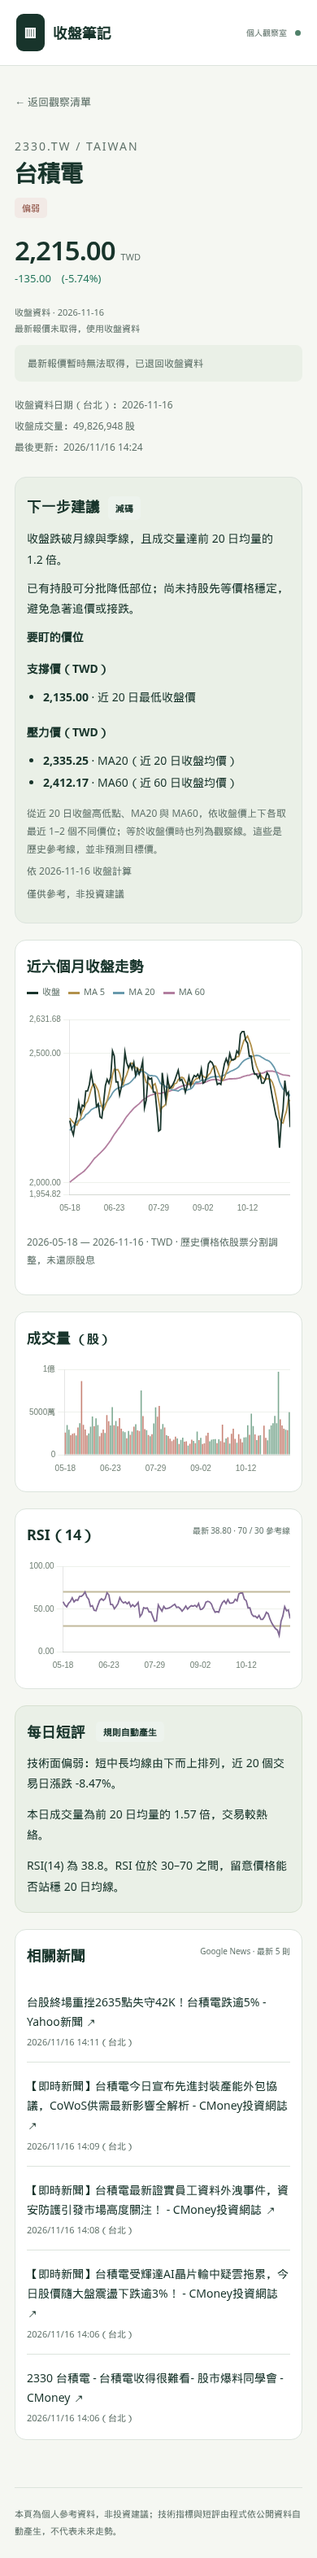
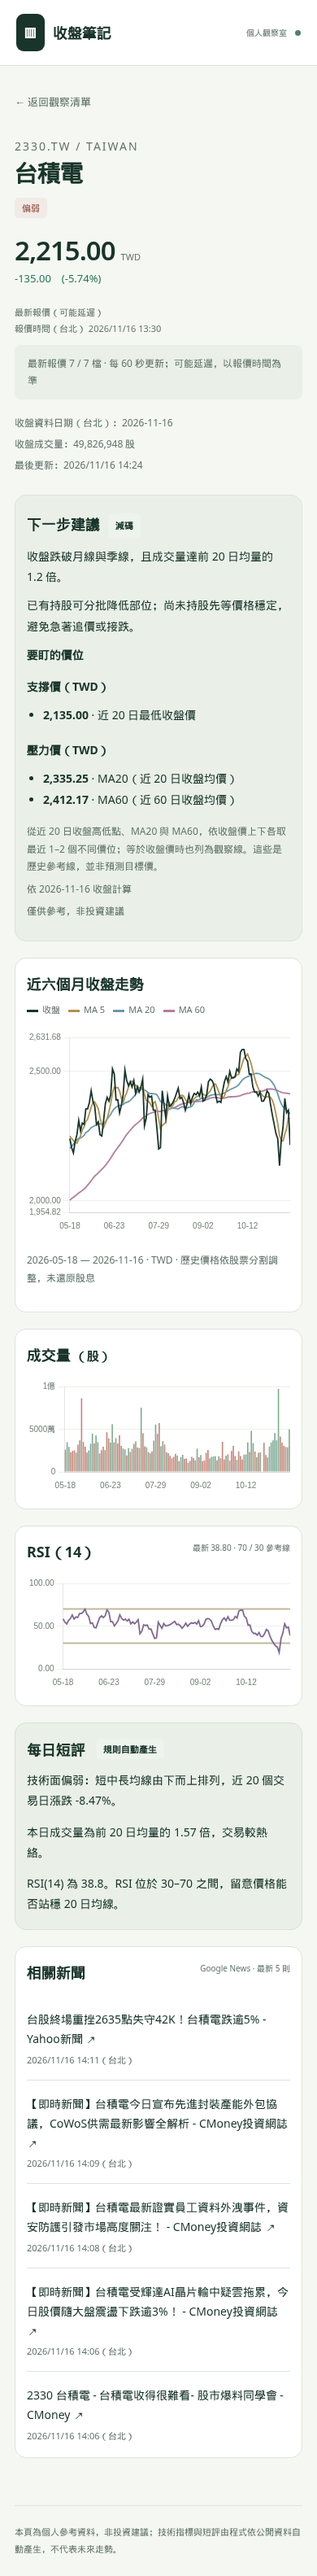
docs: record v1.2 delivery and production verification

Changed region(s): [[0.0308, 0.0312, 0.9231, 0.9351], [0.7077, 0.6858, 0.8923, 0.7793]]

diff --git a/SUMMARY_v1.2.md b/SUMMARY_v1.2.md
@@ -1,0 +1,65 @@
+# 盯盤網頁 v1.2 交付摘要
+
+正式網址：https://edjumptw.github.io/stock-watch/
+
+功能 commit：`c0b980b94c5274be639fb9c1c1f201e8a87093b6`。
+
+## 七檔建議與價位
+
+價位以各自幣別表示；以下為本次部署快照，日後每日更新會重算。
+
+|股票|收盤日期|動作|支撐價（來源）|壓力價（來源）|
+|---|---|---|---|---|
+|國巨 TWD|2026-11-16|觀望|374.00（近 20 日最低收盤價）|374.00（近 20 日最低收盤價）；467.45（MA20（近 20 日收盤均價））|
+|台達電 TWD|2026-11-16|減碼|1,055.00（近 20 日最低收盤價）|1,361.25（MA20（近 20 日收盤均價））；1,640.00（近 20 日最高收盤價）|
+|台積電 TWD|2026-11-16|減碼|2,135.00（近 20 日最低收盤價）|2,335.25（MA20（近 20 日收盤均價））；2,412.17（MA60（近 60 日收盤均價））|
+|光寶科 TWD|2026-11-16|減碼|198.00（近 20 日最低收盤價）|238.82（MA20（近 20 日收盤均價））；264.00（近 20 日最高收盤價）|
+|日月光投控 TWD|2026-11-16|觀望|527.00（近 20 日最低收盤價）|627.60（MA20（近 20 日收盤均價））；643.37（MA60（近 60 日收盤均價））|
+|NVIDIA USD|2026-11-13|減碼|162.85（近 20 日最低收盤價）|162.85（近 20 日最低收盤價）；198.69（MA20（近 20 日收盤均價））|
+|特斯拉 USD|2026-11-13|續抱|385.36（MA20（近 20 日收盤均價））；371.76（MA60（近 60 日收盤均價））|407.46（近 20 日最高收盤價）|
+
+## 規則說明
+
+v1.2 的「下一步建議」由 `scripts/recommendation.py` 使用已完成交易日的收盤、MA5／MA20／MA60、Wilder RSI(14) 與成交量固定計算，不呼叫 AI、不增加資料來源或金鑰。每天台北 06:00、14:30 的既有 Actions 更新資料時一併重算，前端只顯示 JSON；Worker 盤中報價不影響建議與價位。日期使用交易所交易日期，休市保留最近收盤日。
+
+下列規則依順序判斷，第一個符合者即為動作（等號依下列定義）：
+
+1. **減碼**：RSI ≥ 75；或收盤同時低於 MA20、MA60 且量比 ≥ 1.2。適用已有持股者；無持股者先等穩定。
+2. **分批買進**：MA5 > MA20 > MA60、收盤 ≥ MA20、40 ≤ RSI ≤ 65，且 0.8 ≤ 量比 < 1.5，條件必須全部符合。
+3. **續抱**：收盤 ≥ MA20 ≥ MA60 且 40 ≤ RSI < 75。適用已有持股者，並非要求未持股者直接買進。
+4. **觀望**：其餘情況，包含 RSI 超賣但趨勢尚未穩定，不單因 RSI 低就買進。
+
+量比為當日成交量除以前 20 個交易日平均成交量（不含當日）；均量為零時量比設為零。支撐與壓力候選為近 20 個交易日（含當日）最低／最高**收盤價**、MA20、MA60；支撐只取 ≤ 當日收盤、壓力只取 ≥ 當日收盤的價位，按與收盤價距離各取最近 1–2 個不同數值。候選以程式儲存精度比較；同價只列一次，來源優先使用近 20 日收盤高低點，再 MA20、MA60。等於收盤價可同時列入兩側，代表當下觀察線；不推算未來目標價，也不使用盤中高低價。每個價位都列出來源與幣別。
+
+首頁每檔顯示動作與一句摘要；詳細頁提供兩句理由、價位與算法。每個區塊都標示「依 YYYY-MM-DD 收盤計算」及「僅供參考，非投資建議」。規則未考慮個人持股成本與風險承受度，不代表未來報酬。
+
+## 修改檔案
+
+- `scripts/recommendation.py`：純收盤資料建議規則與價位計算。
+- `scripts/update_data.py`：每日既有更新程序附加 recommendation 欄位。
+- `data/index.json` 及七份個股 JSON：補入目前收盤資料的建議。
+- `app.js`、`style.css`：總覽精簡版與個股完整版，沿用原色彩與排版。
+- `README.md`：建議規則、門檻、價位來源與排程說明。
+- `tests/test_recommendation.py`：規則優先序與邊界、七檔重算一致、價位與零量測試。
+- `scripts/check_browser.py`：七檔建議、手機無溢出與截圖驗收。
+- `screenshots/v1.2-*.png`：驗收截圖。
+- `SUMMARY_v1.2.md`：本摘要。
+
+## 驗證與截圖
+
+- 本機 `python -m unittest discover -s tests -v`：5 項通過。
+- `node --check app.js` 與 `node tests/test_worker.mjs`：通過。
+- Playwright：390px 七檔建議、七個詳細頁、三張圖與五則新聞、無橫向溢出與 JS 錯誤；另存 1440px 桌面總覽。
+- 截圖：`/workspace/stock-watch/screenshots/v1.2-home-mobile.png`、`v1.2-home-desktop.png`、`v1.2-detail-mobile.png`，及 `v1.2-{2327.TW,2308.TW,2330.TW,2301.TW,3711.TW,NVDA,TSLA}-mobile.png`（均在同目錄）。
+
+## 範圍與後續
+
+未增加股票、AI 評論、新聞分析、交易或通知功能；既有 Worker、縱軸與漲紅跌綠維持原實作。Actions 出現既有 action Node 版本及 runner 遷移提示，可另案維護，本次未擴大修改。
+## 正式部署結果
+
+- GitHub Actions 部署成功：https://github.com/edjumptw/stock-watch/actions/runs/43817632979
+- 正式 Pages 已更新；以正式網址執行 `scripts/check_browser.py` 通過，七檔總覽與詳細建議均存在，截圖已換成正式站驗收結果。
+- 額外於正式站注入不同的顯示報價，確認七檔建議文字完全不變；七檔價格圖縱軸仍包住全部收盤／均線資料且不從零開始。
+- modern-web-guidance 的 `card` 指引檢查：保留 article、標題原生連結與單一延伸點擊區；新建議區沒有新增互動控制，內容依閱讀順序排列。
+
+DONE
